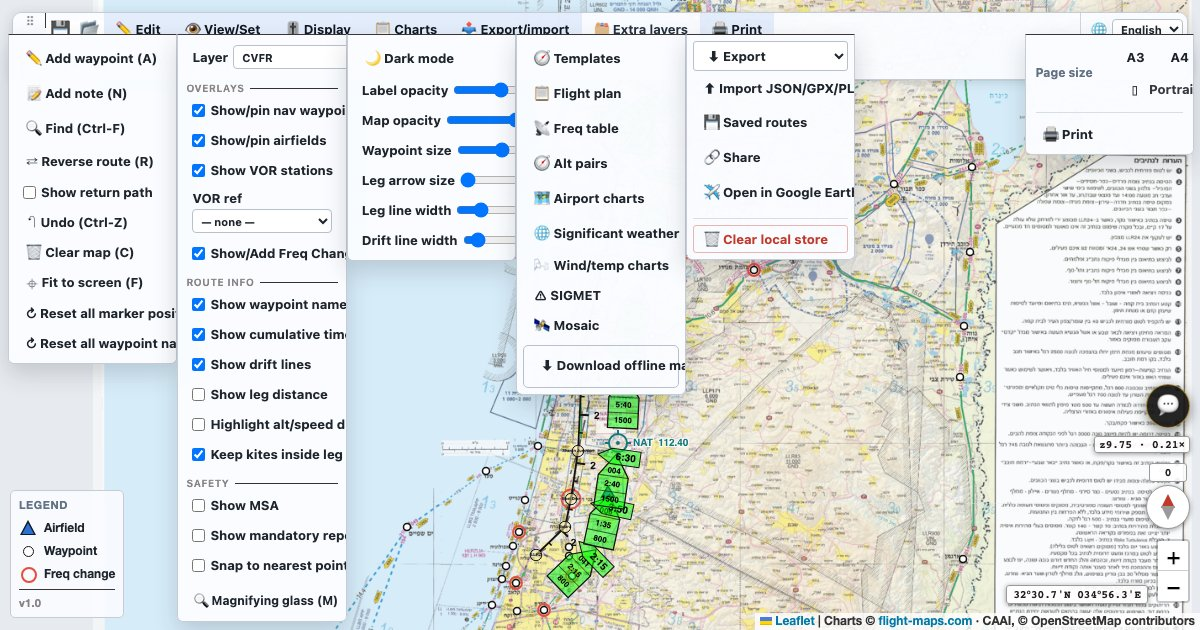
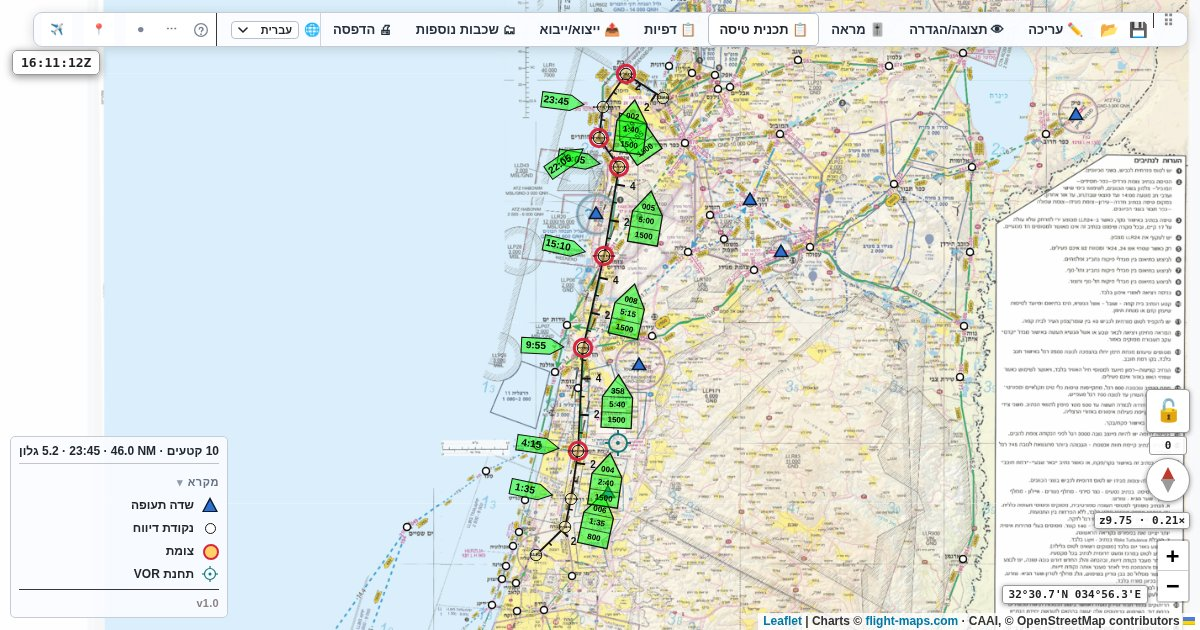
og-preview: regenerate the social card in Hebrew, with the chart showing
The committed preview was stale (2026-07-26) and the generator produced a bad
frame: English UI, every toolbar section forced open over the map, and no chart
tiles. Now it captures ?lang=he, leaves the sections CLOSED so the CVFR chart
fills the card, removes the boot screen and the search dock, and waits for the
tiles to paint (run with NAVAID_TEST_TILES=mirror for real chart imagery).

Claude-Session: https://claude.ai/code/session_016GmLy5kufzfY8roPqZUBeZ

diff --git a/tests/og-preview.spec.js b/tests/og-preview.spec.js
@@ -36,14 +36,14 @@ test.describe('Social media preview image', () => {
     await page.addInitScript(() => {
       try {
         localStorage.clear(); sessionStorage.clear();
-        for (const s of ['build','view','display','charts','export','print'])
-          localStorage.setItem('navaid.sec.' + s, '1');
+        // A social card is the CHART with a route on it, not the app's open menus. Leave every
+        // toolbar section CLOSED (do not seed navaid.sec.*) so the map fills the frame.
         // CVFR layer matches the published Israel aeronautical chart that
         // the site is built around.
         localStorage.setItem('navaid.layer', 'CVFR');
       } catch (e) {}
     });
-    await page.goto('?lang=en');
+    await page.goto('?lang=he');
     await page.waitForFunction(() =>
       typeof state !== 'undefined' && typeof draw === 'function');
     await page.evaluate(route => {
@@ -52,8 +52,16 @@ test.describe('Social media preview image', () => {
       fitView();
       draw();
     }, ROUTE);
-    // Wait for tiles to settle.
-    await page.waitForTimeout(1500);
+    // Drop the boot screen -- it draws over the map inline in <head>, and the app removes it
+    // only after its own load path; the preview must not capture it.
+    await page.evaluate(() => {
+      const b = document.getElementById('boot-loading'); if (b) b.remove();
+      // The search dock/overlay is app chrome, not chart -- keep the card clean.
+      const so = document.getElementById('search-overlay'); if (so) so.classList.add('hidden');
+      const box = document.querySelector('.search-dock, .wp-search-dock'); if (box) box.style.display = 'none';
+    });
+    // Let the chart tiles actually paint before the shot (a bare 1.5s left a grey map).
+    await page.waitForTimeout(3500);
     await page.screenshot({
       path: path.join(__dirname, '..', 'docs', 'assets', 'og-preview.jpg'),
       type: 'jpeg',
